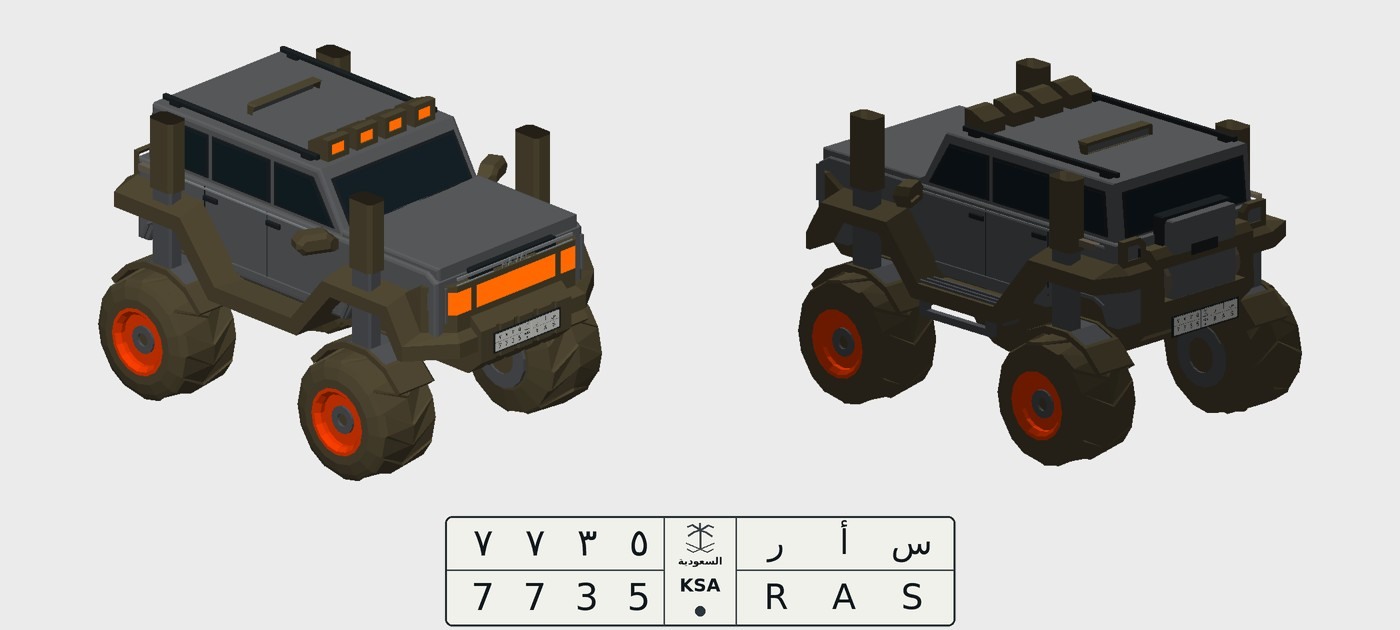
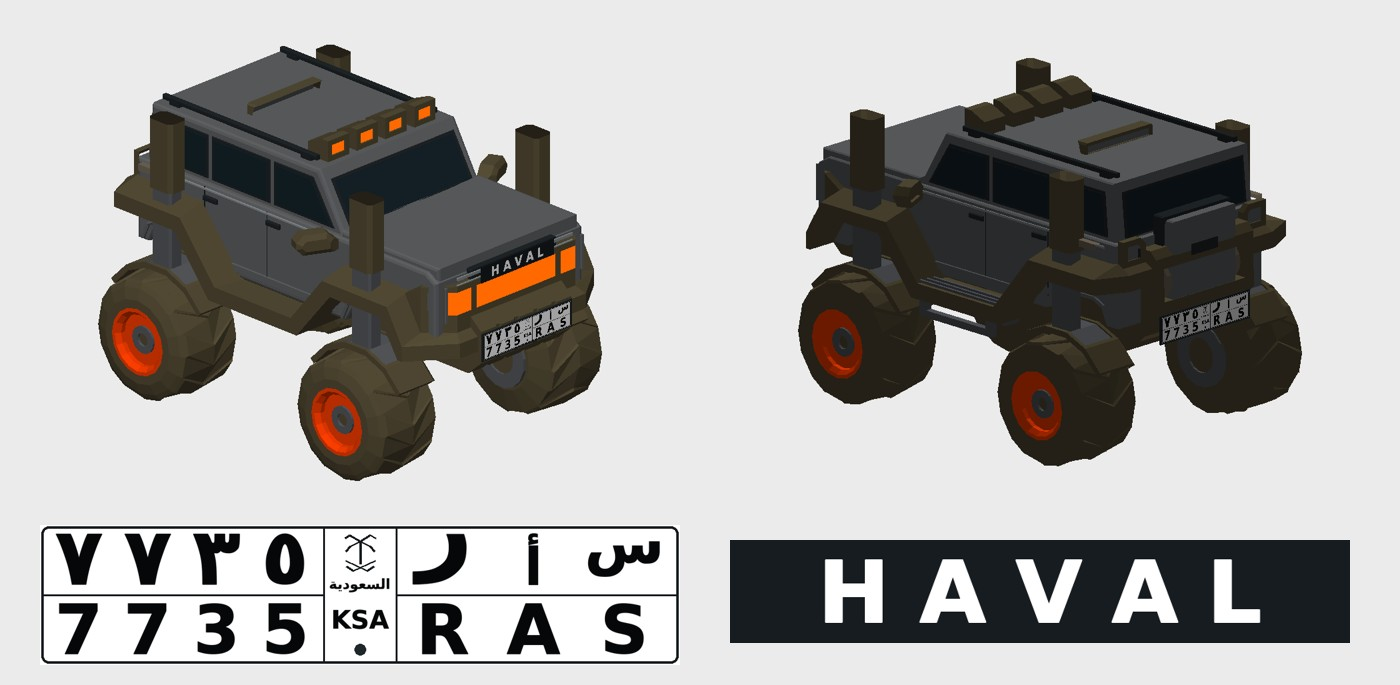
Improve plate and HAVAL badge readability
Enlarge front and rear plates 35%, use heavier registration lettering in a shared 1024x224 texture, and add a larger white HAVAL badge above the existing front light bar. Refresh vehicle cache key and preview. Both GLBs validate without errors; browser gameplay not tested.

diff --git a/sources/Game/Game.js b/sources/Game/Game.js
@@ -133,7 +133,7 @@ export class Game
             [
                 [ 'foliageTexture',                        `foliage/foliageSDF.${compressedTextureExtension}${cb}`,                              compressedTextureFormat, (resource) => { resource.minFilter = THREE.NearestFilter; resource.magFilter = THREE.NearestFilter; resource.generateMipmaps = false; } ],
                 [ 'bushesReferences',                      `bushes/bushesReferences${compressedModelSuffix}.glb${cb}`,                           'gltf' ],
-                [ 'vehicle',                               `vehicle/default${compressedModelSuffix}.glb?cb=h9-plates-7735-v2`,                                   'gltf' ],
+                [ 'vehicle',                               `vehicle/default${compressedModelSuffix}.glb?cb=h9-labels-bold-v3`,                                   'gltf' ],
                 [ 'playgroundVisual',                      `playground/playgroundVisual${compressedModelSuffix}.glb${cb}`,                       'gltf' ],
                 [ 'playgroundPhysical',                    `playground/playgroundPhysical${compressedModelSuffix}.glb${cb}`,                     'gltf' ],
                 [ 'flowersReferencesModel',                `flowers/flowersReferences${compressedModelSuffix}.glb${cb}`,                         'gltf' ],
